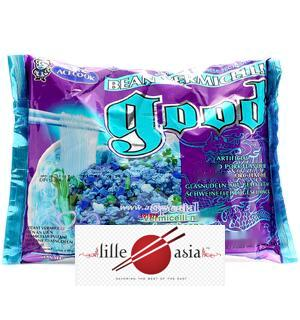
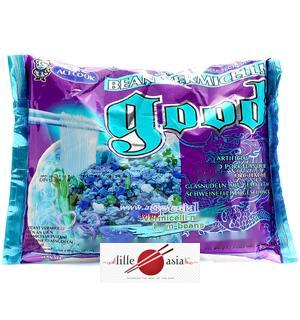
size

Changed region(s): [[0.24, 0.6875, 0.75, 0.875]]

diff --git a/set.py b/set.py
@@ -94,8 +94,8 @@ for image_file in image_files:
     output_image_path = os.path.join(output_folder_path, f'output_{image_file}')  # Output image path
     
     # Set the maximum width and height if needed
-    max_width = 150
-    max_height = 80
+    max_width = 100
+    max_height = 65
     
     # Call the inpaint_and_insert function for each image
     inpaint_and_insert(img_path, pipeline, image_to_insert_path, output_image_path, max_width, max_height)
